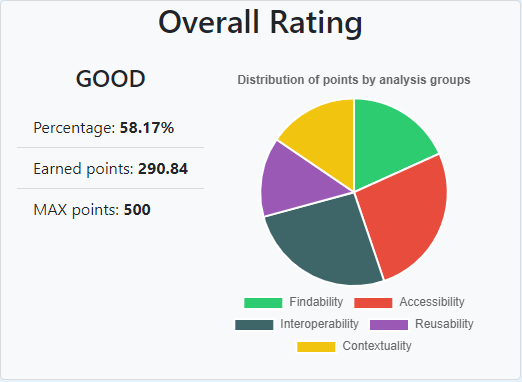
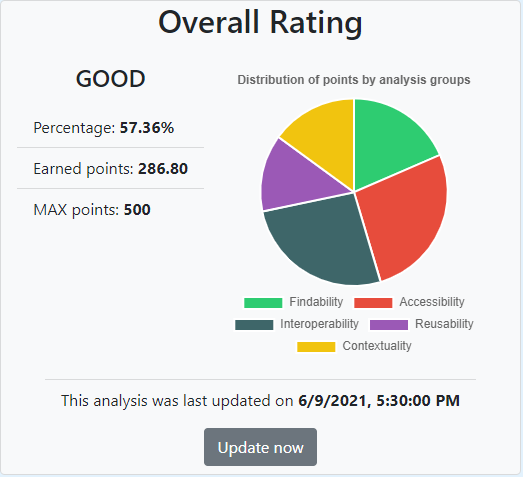
Fixed everything - now need to add tooltips

diff --git a/app/public/scripts/create/datasetCreation.js b/app/public/scripts/create/datasetCreation.js
@@ -16,6 +16,7 @@ var createDataset = async (portalName, dataset) => {
     let numOfGroups = dataset.groups ? dataset.groups.length : 0;
     let numOfExtras = dataset.extras ? dataset.extras.length : 0;
     let currentDate = new Date();
+    let licenseTitle = dataset.license_title ? dataset.license_title : dataset.license_id;
 
     // if dataset doesn't exists in database create a new one
     if (!newDataset) {
@@ -25,7 +26,7 @@ var createDataset = async (portalName, dataset) => {
             author: dataset.author, maintainer: dataset.maintainer, private: dataset.private,
             state: dataset.state, description: description, created: metadataCreated,
             last_modified: metadataModified, num_of_extras: numOfExtras, num_of_groups: numOfGroups,
-            num_of_keywords: numOfKeywords, license_title: dataset.license_title,
+            num_of_keywords: numOfKeywords, license_title: licenseTitle,
             license_url: dataset.license_url, url: dataset.url
         }
         // create new dataset with loaded data
@@ -37,17 +38,17 @@ var createDataset = async (portalName, dataset) => {
         // let savedLastModified = new Date(newDataset.metadata_modified);
         // if last modified timestamps are almost equal continue, else update
         // if (metadataModified && (metadataModified - savedLastModified >= 45)) {
-            // update all info that can be updated about this dataset
-            let dataForUpdate = {
-                last_updated: currentDate, name: dataset.name, title: dataset.title,
-                owner_org: dataset.owner_org, author: dataset.author, maintainer: dataset.maintainer,
-                private: dataset.private, state: dataset.state, description: description,
-                created: metadataCreated, last_modified: metadataModified,
-                num_of_extras: numOfExtras, num_of_groups: numOfGroups, num_of_keywords: numOfKeywords,
-                license_title: dataset.license_title, license_url: dataset.license_url, url: dataset.url
-            }
-            await newDataset.update(dataForUpdate);
-            checkResources = true; //also I need to check resources now
+        // update all info that can be updated about this dataset
+        let dataForUpdate = {
+            last_updated: currentDate, name: dataset.name, title: dataset.title,
+            owner_org: dataset.owner_org, author: dataset.author, maintainer: dataset.maintainer,
+            private: dataset.private, state: dataset.state, description: description,
+            created: metadataCreated, last_modified: metadataModified,
+            num_of_extras: numOfExtras, num_of_groups: numOfGroups, num_of_keywords: numOfKeywords,
+            license_title: licenseTitle, license_url: dataset.license_url, url: dataset.url
+        }
+        await newDataset.update(dataForUpdate);
+        checkResources = true; //also I need to check resources now
         // }
     }
     // check resources if needed

diff --git a/app/models/data/AnalysisResult.js b/app/models/data/AnalysisResult.js
@@ -75,13 +75,13 @@ module.exports = class AnalysisResult {
 
         let percentageTotal = totalEarnedWeight / totalWeight * 100;
         let grade = null;
-        if (percentageTotal >= 91) {
+        if (percentageTotal >= 90) {
             grade = 'EXCELLENT';
-        } else if (percentageTotal >= 77) {
+        } else if (percentageTotal >= 75) {
             grade = 'VERY GOOD';
-        } else if (percentageTotal >= 52) {
+        } else if (percentageTotal >= 55) {
             grade = 'GOOD';
-        } else if (percentageTotal >= 36) {
+        } else if (percentageTotal >= 40) {
             grade = 'BAD';
         } else {
             grade = 'VERY BAD';

diff --git a/app/public/scripts/analysis/updateAnalysis.js b/app/public/scripts/analysis/updateAnalysis.js
@@ -3,8 +3,8 @@ spinner.style.display = 'none';
 
 // update selected analysis
 var updateAnalysis = async () => {
-    let confirmed = confirm('Depending on the amount of data given for analysis, this might take up to 30 minutes,'
-        + 'maybe even an hour or more.\nBut, datasets and resources can be analysed in a few seconds.\n'
+    let confirmed = confirm('Depending on the size of portals or organizations, this might take up to 30 minutes,'
+        + ' maybe even an hour or more.\n\nBut, datasets and resources can be analysed in a few seconds.\n\n'
         + 'Are you sure you want to start a new analysis?'
     );
     if (confirmed) {

diff --git a/app/public/scripts/utils/excelParsing.js b/app/public/scripts/utils/excelParsing.js
@@ -23,11 +23,11 @@ var parseExcelFile = (data, extension) => {
             try {
                 analyseFile(worksheetJSON);
             } catch (err) {
-                console.log(err);
+                // console.log(err);
             }
         });
     } catch (err) {
-        console.log(err);
+        // console.log(err);
     }
     // console.log(blankRows + '/' + numOfRows + '\n');
 
@@ -45,7 +45,7 @@ var parseJSONFile = (jsonData) => {
     try {
         analyseFile(jsonData);
     } catch (err) {
-        console.log(err);
+        // console.log(err);
     }
 
     return {

diff --git a/app/routes/portal.routes.js b/app/routes/portal.routes.js
@@ -55,7 +55,7 @@ router.get('/', function (req, res) {
                 portalName: req.params.portalName,
                 objectData: portal,
                 overallResults: portal.result.getOverallRating(),
-                urlForUpdate: '/update/portal/' + portalName
+                urlForUpdate: '/update/portal/' + req.params.portalName
             });
         }
     })();

diff --git a/app/public/scripts/analysis/analysePortal.js b/app/public/scripts/analysis/analysePortal.js
@@ -30,7 +30,7 @@ var analysePortal = async (portalName) => {
         );
         await portal.analysePortal();
     }
-    return { failed: failed, portalData: portal };
+    return { failed: failed, portal: portal };
 };
 
 module.exports = {
